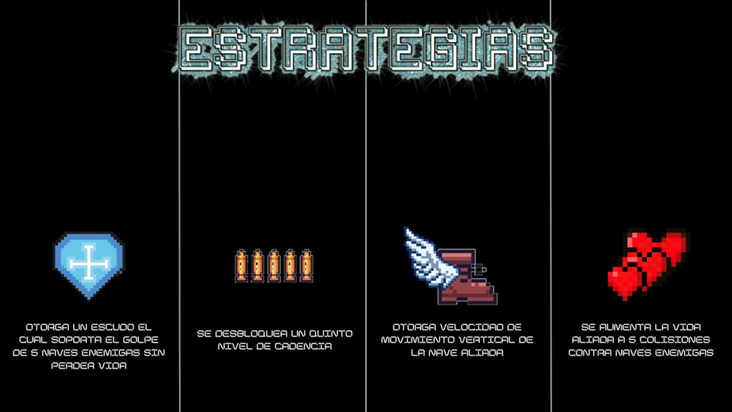
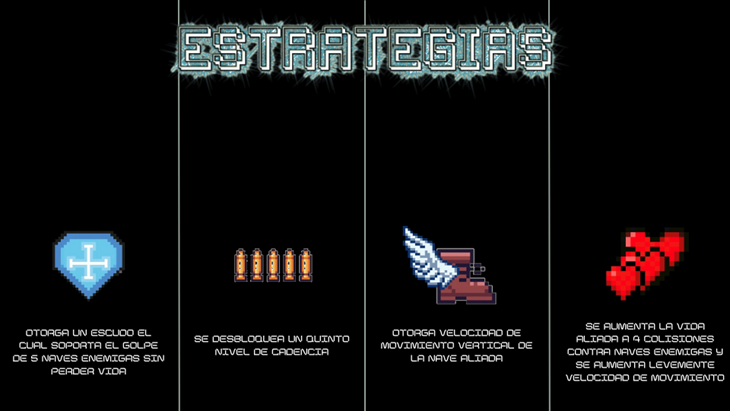
Se terminan los poderes y más cosillas

diff --git a/main.cpp b/main.cpp
@@ -1,3 +1,6 @@
+/**
+ * Librerias externas utilizadas
+ */
 #include <iostream>
 #include <raylib.h>
 #include <math.h>
@@ -8,14 +11,26 @@
  * Facilitar prints
  */
 using namespace std;
+
+/**
+ * Se setean las distintas ventanas que se van a utilizar en el juego
+ */
 typedef enum GameScreen {INICIO, ESTRATEGIAS, GAMEPLAY, ENDING } GameScreen;
 
+/**
+ *
+ */
 typedef enum { FIRST = 0, SECOND, THIRD } Waves;
 
+/**
+ * Estructura utilizada para el jugador, se le da velocidad
+ */
 typedef struct Jugador {
     Vector2 velocidad;
 }Jugador;
-
+/**
+ * Estructura utilizada para los enemigos,
+ */
 typedef struct Enemigos {
     Image enemigos;
     Vector2 velocidad;
@@ -43,9 +58,18 @@ static int velocity = 5;
 static const char *nave = "/home/felipe/Proyecto1_Felipe_Jimenez-Carlos_Segura/imagenes/nave.png";
 static const char *naveDown = "/home/felipe/Proyecto1_Felipe_Jimenez-Carlos_Segura/imagenes/naveDown.png";
 static const char *naveUp = "/home/felipe/Proyecto1_Felipe_Jimenez-Carlos_Segura/imagenes/naveUp.png";
-static const int cantBalas = 100;
+static const int cantBalas = 1000;
+static int cantVidas = 3;
 static Jugador jugador1 = { 0 };
 static Disparos disparos[cantBalas] = { 0 };
+static string respuesta = "";
+static bool poderEsc = false;
+static bool poderCad = false;
+static bool poderVel = false;
+static bool poderVid = false;
+static bool actPod = false;
+
+
 
 /**
  * Clase nodo, utilizada para almacenar información
@@ -129,16 +153,11 @@ public:
      * Mostrar collector
      */
     void Mostrar() {
-        cout << "Se elimina ----> " << head <<endl;
         if (head == nullptr)
             cout << "No hay elementos en collector";
         else {
-            cout<< "Collector:   ";
             for (Nodo *temp = head; temp != nullptr; temp = temp->siguiente) {
-                cout << temp << " / ";
             }
-            cout << endl;
-            cout << endl;
         }
     }
     /**
@@ -263,28 +282,31 @@ public:
      */
 
     void EliminarDato(int data) {
-        if (data == cabeza->dato) {
-            Nodo *temp = cabeza;
-            cabeza = cabeza->siguiente;
-            botadero->InsertarInicioC(temp);
-            botadero->Mostrar();
-            tamaño--;
+        Encuentra(data);
+        if(respuesta == "si") {
+            if (data == cabeza->dato) {
+                Nodo *temp = cabeza;
+                cabeza = cabeza->siguiente;
+                botadero->InsertarInicioC(temp);
+                botadero->Mostrar();
+                tamaño--;
 
 
-        } else {
-            Nodo *buscador = cabeza;
-            Nodo *prev;
-            while (buscador->dato != data) {
-                prev = buscador;
-                buscador = buscador->siguiente;
+            } else {
+                Nodo *buscador = cabeza;
+                Nodo *prev;
+                while (buscador->dato != data) {
+                    prev = buscador;
+                    buscador = buscador->siguiente;
+                }
+
+                prev->siguiente = buscador->siguiente; // prev->nextPtr = prev->nextPtr->nextPtr;
+                botadero->InsertarInicioC(buscador);
+                botadero->Mostrar();
+                tamaño--;
             }
-
-            prev->siguiente = buscador->siguiente; // prev->nextPtr = prev->nextPtr->nextPtr;
-            botadero->InsertarInicioC(buscador);
-            botadero->Mostrar();
-            tamaño--;
+        } else{
         }
-
     }
     /**
      * Función para mostrar la lista enlazada actual
@@ -292,15 +314,37 @@ public:
     void MostrarLista() {
         Nodo *temp;
         if (cabeza == nullptr) {
-            cout << "No hay elementos en al lista " << endl;
         } else {
             temp = cabeza;
-            cout << "Lista :   " << endl;
             while (temp) {
-                cout <<  temp->dato << " -> " <<temp << endl;
                 temp = temp->siguiente;
             }
-            cout << endl;
+        }
+    }
+    void Encuentra(int data){
+        Nodo *temp;
+        if (cabeza == nullptr) {
+            respuesta = "no";
+        } else{
+            int f = 0;
+            temp = cabeza;
+            do {
+                if (temp->dato == data) {
+                    f = 1;
+                    respuesta = "si";
+                    break;
+                }
+                if(temp->siguiente == nullptr){
+                    break;
+                }
+                else{
+                    temp = temp->siguiente;
+                }
+
+            } while (temp != cabeza);
+            if (f == 0) {
+                respuesta = "no";
+            }
         }
     }
 };
@@ -312,7 +356,7 @@ static Collector *C = new Collector();
  */
 void juego(void){
     posJugx = 20;
-    posJugy = 50;
+    posJugy = 150;
     jugador1.velocidad.y = velocity;
     for(int i=0; i<cantBalas;i++){
         disparos[i].rec.x = 85;
@@ -325,25 +369,69 @@ void juego(void){
         disparos[i].active = false;
         l->InsertarFinal(i);
     }
-    l->EliminarDato(4);
-    l->MostrarLista();
 }
+/**
+ * Función la cual le da al jugador los límites de la pantalla, su cambio de sprites, la posibilidad de disparar a
+ * cierta cadencia, además de configurarla dependiendo de las teclas que presiona el jugador y tener cierta munición.
+ */
 
 void actJuego(void){
-    if(posJugy>5){
+    if(IsKeyPressed(KEY_A)) {
+        rate = 1 ;
+        cadencia = 0;
+    }
+
+    if(IsKeyPressed(KEY_S)) {
+        rate = 2;
+        cadencia = 0;
+    }
+
+    if(IsKeyPressed(KEY_D)) {
+        rate = 3;
+        cadencia = 0;
+    }
+
+    if(IsKeyPressed(KEY_F)) {
+        rate = 4;
+        cadencia = 0;
+    }
+    if(poderEsc && actPod){
+        nave = "/home/felipe/Proyecto1_Felipe_Jimenez-Carlos_Segura/imagenes/naveEsc.png";
+        naveDown = "/home/felipe/Proyecto1_Felipe_Jimenez-Carlos_Segura/imagenes/naveEscDown.png";
+        naveUp = "/home/felipe/Proyecto1_Felipe_Jimenez-Carlos_Segura/imagenes/naveEscUp.png";
+    }
+
+    if(poderCad && actPod){
+        nave = "/home/felipe/Proyecto1_Felipe_Jimenez-Carlos_Segura/imagenes/naveVel.png";
+        naveDown = "/home/felipe/Proyecto1_Felipe_Jimenez-Carlos_Segura/imagenes/naveDVel.png";
+        naveUp = "/home/felipe/Proyecto1_Felipe_Jimenez-Carlos_Segura/imagenes/naveUVel.png";
+        if(IsKeyPressed(KEY_G)){
+            rate = 6;
+            cadencia = 0;
+        }
+    }
+
+
+    if(poderVid && actPod){
+        nave = "/home/felipe/Proyecto1_Felipe_Jimenez-Carlos_Segura/imagenes/naveAlas.png";
+        naveDown = "/home/felipe/Proyecto1_Felipe_Jimenez-Carlos_Segura/imagenes/naveAlasD.png";
+        naveUp = "/home/felipe/Proyecto1_Felipe_Jimenez-Carlos_Segura/imagenes/naveAlasU.png";
+    }
+
+
+    if(posJugy>40){
         if (IsKeyDown(KEY_UP)) posJugy -= jugador1.velocidad.y;
         if (IsKeyDown(KEY_UP)) navecita = LoadTexture(naveUp);
         if (IsKeyReleased(KEY_UP)) navecita = LoadTexture(nave);
-        if(IsKeyDown(KEY_SPACE)){
-            cadencia += rate;
-            for(int i=0; i<cantBalas;i++){
-                if(!disparos[i].active && cadencia%20 == 0){
-                    disparos[i].rec.x = 85;
-                    disparos[i].rec.y = posJugy+30;
-                    disparos[i].active = true;
-                    break;
-                }
+        cadencia += rate;
+        for(int i=0; i<cantBalas;i++){
+            if(!disparos[i].active && cadencia %48 == 0){
+                disparos[i].rec.x = 85;
+                disparos[i].rec.y = posJugy+30;
+                disparos[i].active = true;
+                break;
             }
+
         }
     }
 
@@ -351,28 +439,34 @@ void actJuego(void){
         if(IsKeyDown(KEY_DOWN)) posJugy+= jugador1.velocidad.y;
         if (IsKeyDown(KEY_DOWN)) navecita = LoadTexture(naveDown);
         if (IsKeyReleased(KEY_DOWN)) navecita = LoadTexture(nave);
-        if(IsKeyDown(KEY_SPACE)){
-            cadencia += rate;
-            for(int i=0; i<cantBalas;i++){
-                if(!disparos[i].active && cadencia%20 == 0){
-                    disparos[i].rec.x = 85;
-                    disparos[i].rec.y = posJugy+30;
-                    disparos[i].active = true;
-                    break;
-                }
+        cadencia += rate;
+        for (int i = 0; i < cantBalas; i++) {
+            if (!disparos[i].active && cadencia %48 == 0) {
+                disparos[i].rec.x = 85;
+                disparos[i].rec.y = posJugy + 30;
+                disparos[i].active = true;
+                break;
             }
-        }
+
+    }
     }
     for(int i=0; i<cantBalas;i++){
-        if(disparos[i].active and disparos[i].rec.x<=800){
-            disparos[i].rec.x += disparos[i].balavel.x;
-            cout<<disparos[i].rec.x<<endl;
-            if(disparos[i].rec.x >= 800){
-                //l->EliminarDato(disparos[i].numero);
+        if(disparos[i].active){
+            if(disparos[i].rec.x<=800){
+                disparos[i].rec.x += disparos[i].balavel.x;
+            } else {
+                l->EliminarDato(i);
+                l->MostrarLista();
             }
+
         }
     }
 }
+/**
+ * Función llamada cada frame, para revisar el funcionamiento del jugador
+ */
+
+
 
 void actualizar(void){
     actJuego();
@@ -404,7 +498,10 @@ int main(){
     Rectangle strat3 = {385, 150, 150, 50 }; // Coordenadas y dimensiones del botón
     Rectangle strat4 = {565, 150, 150, 50 }; // Coordenadas y dimensiones del botón
 
+    Rectangle activarPoder = {450,5,150,30};
+
     navecita = LoadTexture(nave);
+    Texture2D icoVidas = LoadTexture("/home/felipe/Proyecto1_Felipe_Jimenez-Carlos_Segura/imagenes/vidas.png");
     Texture2D fondoI = LoadTexture("/home/felipe/Proyecto1_Felipe_Jimenez-Carlos_Segura/imagenes/fondo.png");
     Texture2D fondoS = LoadTexture("/home/felipe/Proyecto1_Felipe_Jimenez-Carlos_Segura/imagenes/fondostrat.png");
 
@@ -433,16 +530,14 @@ int main(){
             {
                 if (CheckCollisionPointRec(GetMousePosition(), strat1) && IsMouseButtonPressed(MOUSE_LEFT_BUTTON))
                 {
-                    nave = "/home/felipe/Proyecto1_Felipe_Jimenez-Carlos_Segura/imagenes/naveEsc.png";
-                    naveDown = "/home/felipe/Proyecto1_Felipe_Jimenez-Carlos_Segura/imagenes/naveEscDown.png";
-                    naveUp = "/home/felipe/Proyecto1_Felipe_Jimenez-Carlos_Segura/imagenes/naveEscUp.png";
+                    poderEsc = true;
                     currentScreen = GAMEPLAY;
                     juego();
                 }
                 if (CheckCollisionPointRec(GetMousePosition(), strat2) && IsMouseButtonPressed(MOUSE_LEFT_BUTTON))
                 {
                     currentScreen = GAMEPLAY;
-                    rate = 15;
+                    poderCad = true;
                     juego();
                 }
                 if (CheckCollisionPointRec(GetMousePosition(), strat3) && IsMouseButtonPressed(MOUSE_LEFT_BUTTON))
@@ -454,6 +549,8 @@ int main(){
                 if (CheckCollisionPointRec(GetMousePosition(), strat4) && IsMouseButtonPressed(MOUSE_LEFT_BUTTON))
                 {
                     currentScreen = GAMEPLAY;
+                    velocity = 10;
+                    poderVid = true;
                     juego();
                 }
             } break;
@@ -462,11 +559,15 @@ int main(){
                 // TODO: Update GAMEPLAY screen variables here!
 
                 actualizar();
-                // Press enter to change to ENDING screen
-                if (IsKeyPressed(KEY_ENTER) || IsGestureDetected(GESTURE_TAP))
-                {
-                    currentScreen = ENDING;
+                if (IsKeyPressed(KEY_Z)){
+                    actPod = true;
                 }
+
+                    // Press enter to change to ENDING screen
+                //if (IsKeyPressed(KEY_ENTER) || IsGestureDetected(GESTURE_TAP))
+                //{
+                //    currentScreen = ENDING;
+                //}
 
             } break;
             case ENDING:
@@ -526,11 +627,16 @@ int main(){
                 // TODO: Draw GAMEPLAY screen here!
                 DrawRectangle(0, 0, screenWidth, screenHeight, BLACK);
                 DrawTexture(navecita, posJugx, posJugy, RAYWHITE);
+                DrawTexture(icoVidas,10,5,RAYWHITE);
                 for(int i=0; i<cantBalas;i++){
                     if(disparos[i].active) DrawRectangleRec(disparos[i].rec, YELLOW);
                 }
+                DrawText("Para activar el poder presione [z]", activarPoder.x + 10, activarPoder.y + 5, 15, DARKGRAY);
+                DrawText("x", 50, 18, 20, GRAY);
+                DrawText(TextFormat("%02i", cantVidas), 65, 20, 20, GRAY);
+                DrawText("Wave", 310, 10, 30, GRAY);
+                DrawText(TextFormat("%01i", cantVidas), 400, 10, 30, GRAY);
 
-                DrawText("GAMEPLAY SCREEN", 20, 20, 40, MAROON);
             } break;
             case ENDING:
             {
